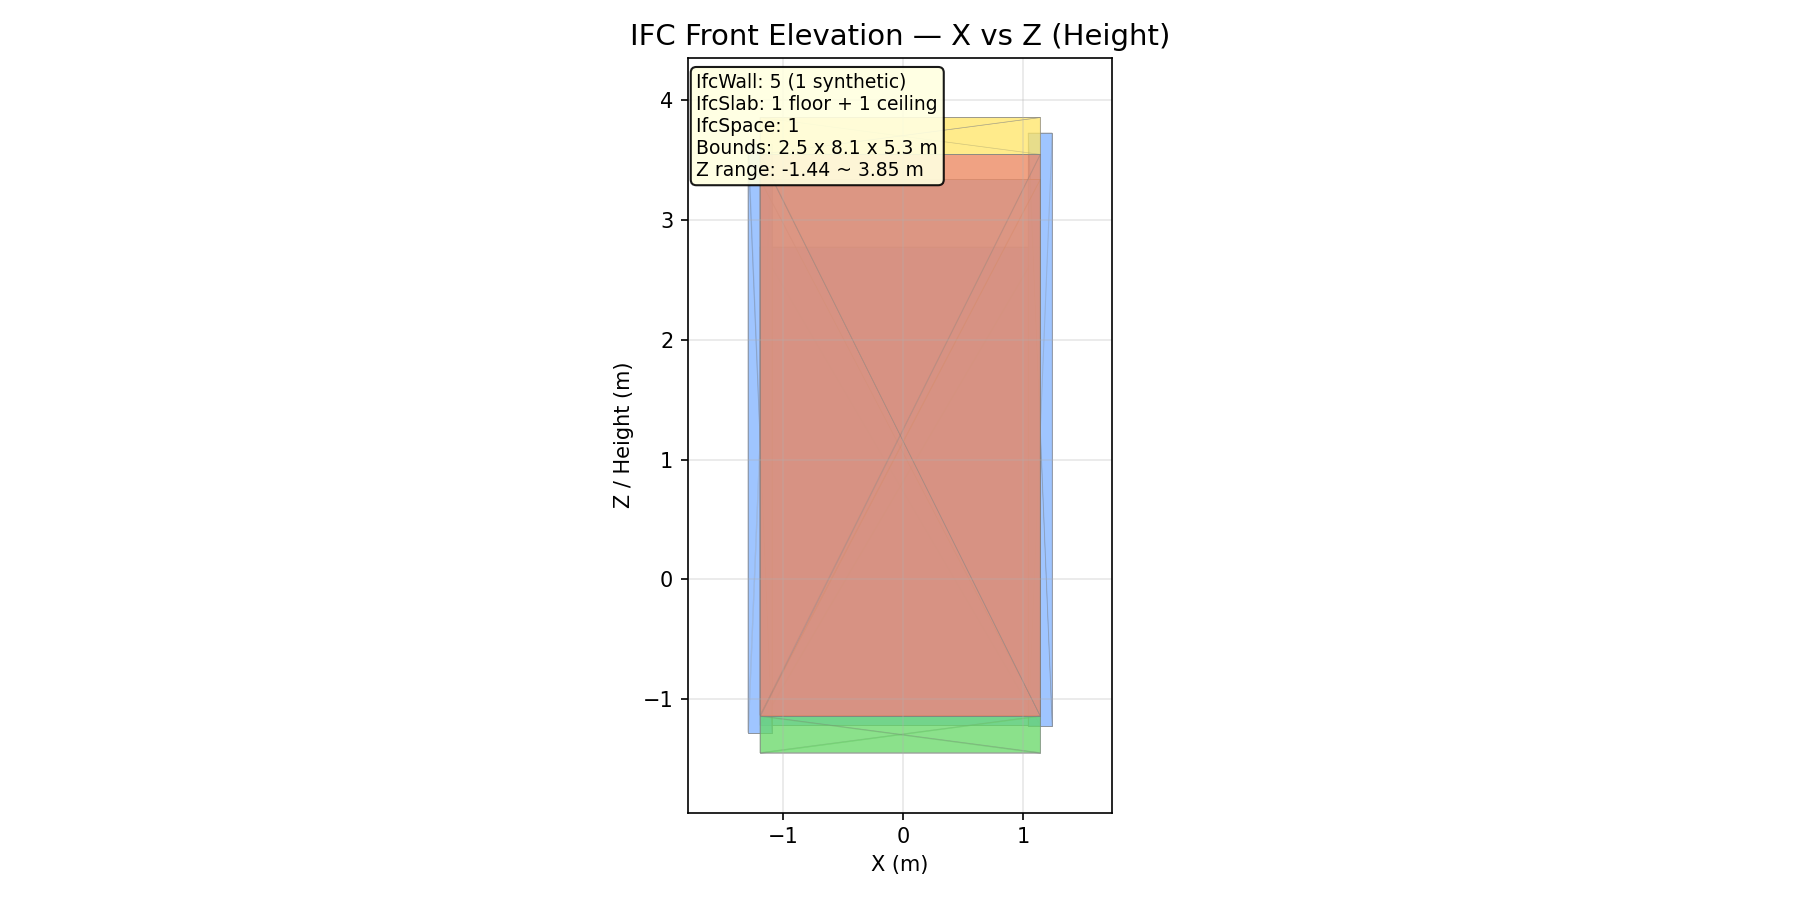
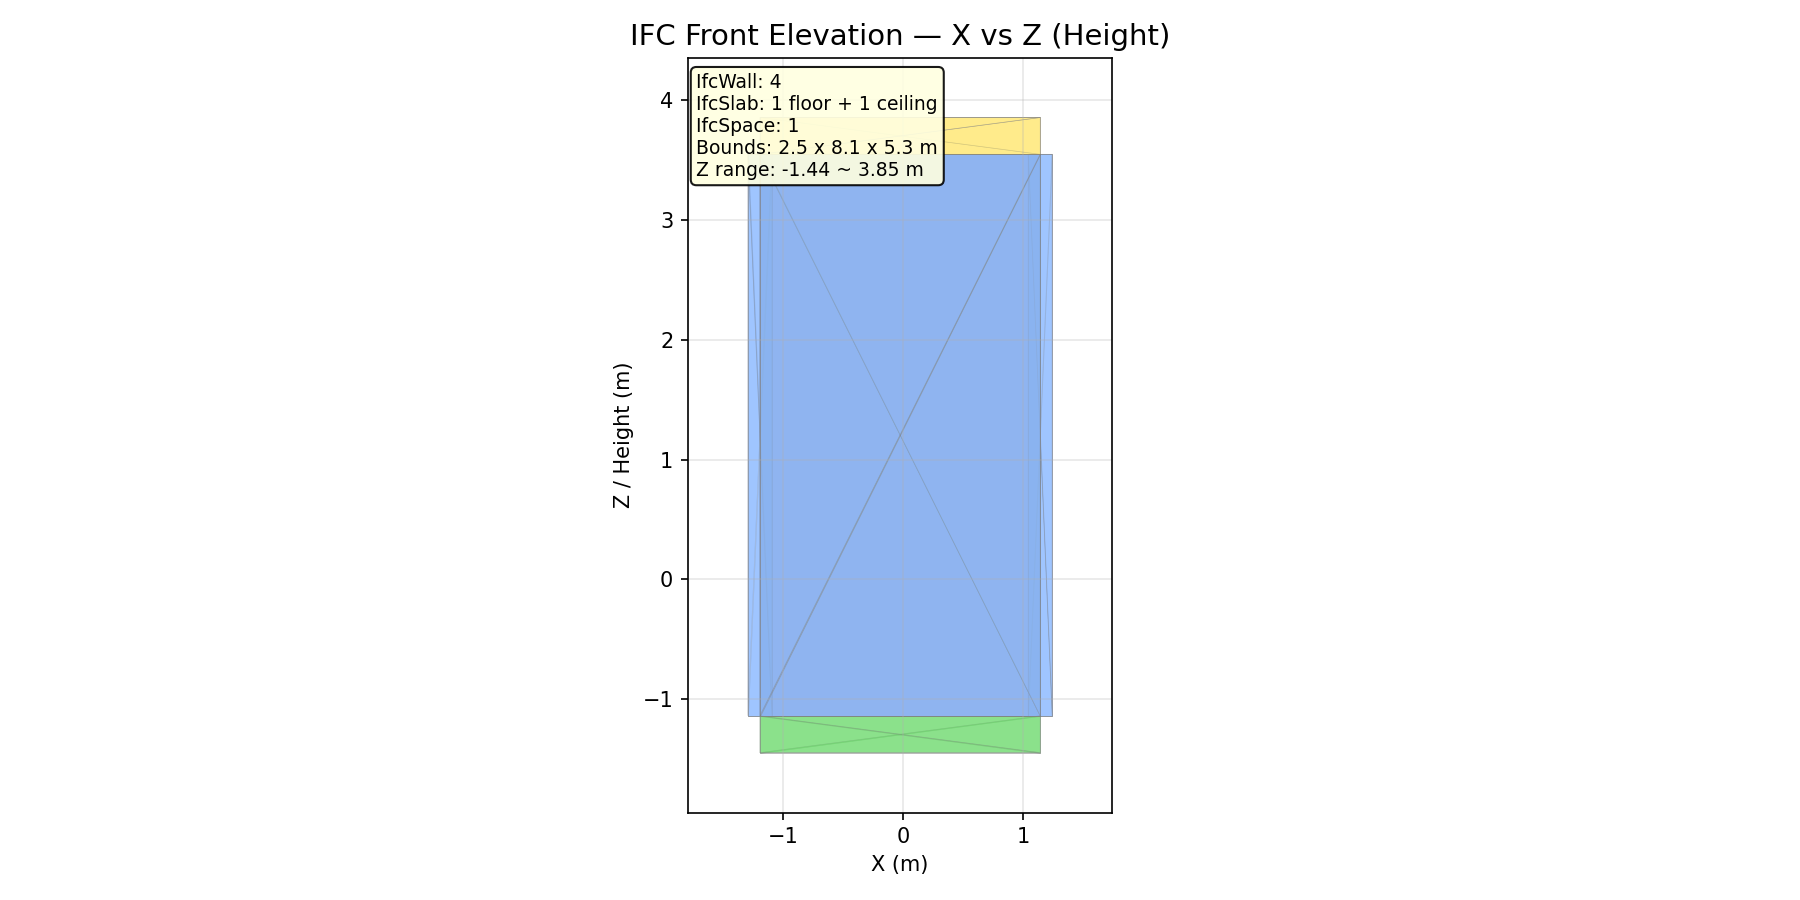
fix: 벽 높이 floor/ceiling 정규화 + synthetic wall 중복 제거
Cloud2BIM 패턴 준수: 벽을 storey floor_height→ceiling_height로
균일 extrude. Synthetic wall이 detected wall과 겹치면 자동 제거.

Before: 벽 높이 3.99~4.95m 제각각, ceiling gap 최대 0.77m
After: 모든 벽 4.68m 균일, floor/ceiling gap 0.000m

Changed region(s): [[0.4044, 0.1556, 0.5911, 0.8089], [0.4667, 0.0622, 0.4978, 0.0933]]

diff --git a/src/gss/steps/s07_ifc_export/step.py b/src/gss/steps/s07_ifc_export/step.py
@@ -2,19 +2,61 @@
 
 Primary path: walls.json + spaces.json → center-line based IFC
 Legacy fallback: planes.json + boundaries.json → boundary_3d based IFC
+
+Cloud2BIM pattern:
+  - Walls are extruded from storey floor_height to ceiling_height (uniform).
+  - Synthetic walls overlapping detected walls are deduplicated.
 """
 
 from __future__ import annotations
 
 import json
 import logging
+import math
 from typing import ClassVar
+
+import numpy as np
 
 from gss.core.step_base import BaseStep
 from .config import IfcExportConfig
 from .contracts import IfcExportInput, IfcExportOutput
 
 logger = logging.getLogger(__name__)
+
+
+def _deduplicate_walls(walls: list[dict]) -> list[dict]:
+    """Remove synthetic walls that overlap with detected walls.
+
+    A synthetic wall is considered duplicate if its center-line midpoint
+    is within 0.5 units of a detected wall's center-line midpoint.
+    """
+    detected = [w for w in walls if not w.get("synthetic")]
+    synthetic = [w for w in walls if w.get("synthetic")]
+
+    result = list(detected)
+    for sw in synthetic:
+        s_cl = sw.get("center_line_2d")
+        if not s_cl or len(s_cl) != 2:
+            result.append(sw)
+            continue
+        s0, s1 = np.array(s_cl[0]), np.array(s_cl[1])
+
+        is_dup = False
+        for dw in detected:
+            d_cl = dw.get("center_line_2d")
+            if not d_cl or len(d_cl) != 2:
+                continue
+            d0, d1 = np.array(d_cl[0]), np.array(d_cl[1])
+            fwd = np.linalg.norm(s0 - d0) + np.linalg.norm(s1 - d1)
+            rev = np.linalg.norm(s0 - d1) + np.linalg.norm(s1 - d0)
+            if min(fwd, rev) < 0.5:
+                is_dup = True
+                break
+        if is_dup:
+            logger.info(f"Dedup: synthetic wall {sw.get('id')} overlaps detected wall")
+        else:
+            result.append(sw)
+    return result
 
 
 class IfcExportStep(BaseStep[IfcExportInput, IfcExportOutput, IfcExportConfig]):
@@ -60,6 +102,24 @@ class IfcExportStep(BaseStep[IfcExportInput, IfcExportOutput, IfcExportConfig]):
         # Apply scale override if configured
         scale = self.config.scale_override or coordinate_scale
 
+        # --- Deduplicate synthetic walls overlapping detected walls ---
+        walls_data = _deduplicate_walls(walls_data)
+        logger.info(f"After dedup: {len(walls_data)} walls")
+
+        # --- Extract uniform storey heights from spaces ---
+        floor_z: float | None = None
+        ceiling_z: float | None = None
+        if spaces_data:
+            floor_heights = [s["floor_height"] for s in spaces_data if "floor_height" in s]
+            ceiling_heights = [s["ceiling_height"] for s in spaces_data if "ceiling_height" in s]
+            if floor_heights:
+                floor_z = min(floor_heights) / scale
+            if ceiling_heights:
+                ceiling_z = max(ceiling_heights) / scale
+            logger.info(
+                f"Storey heights: floor_z={floor_z:.3f}m, ceiling_z={ceiling_z:.3f}m"
+            )
+
         # --- Create IFC file + hierarchy ---
         ctx = create_ifc_file(
             version=self.config.ifc_version,
@@ -86,6 +146,8 @@ class IfcExportStep(BaseStep[IfcExportInput, IfcExportOutput, IfcExportConfig]):
                 ctx,
                 wall_data,
                 scale,
+                floor_z=floor_z,
+                ceiling_z=ceiling_z,
                 wall_material_name=self.config.wall_material_name,
                 default_thickness=self.config.default_wall_thickness,
                 create_axis=self.config.create_axis_representation,

diff --git a/src/gss/steps/s07_ifc_export/_wall_builder.py b/src/gss/steps/s07_ifc_export/_wall_builder.py
@@ -24,6 +24,8 @@ def create_wall_from_centerline(
     wall_data: dict,
     scale: float,
     *,
+    floor_z: float | None = None,
+    ceiling_z: float | None = None,
     wall_material_name: str = "Concrete",
     default_thickness: float = 0.2,
     create_axis: bool = True,
@@ -37,6 +39,8 @@ def create_wall_from_centerline(
         ctx: IFC context with file and shared entities.
         wall_data: Dict with center_line_2d, thickness, height_range, etc.
         scale: coordinate_scale divisor for meter conversion.
+        floor_z: Uniform floor Z in meters (overrides per-wall height_range min).
+        ceiling_z: Uniform ceiling Z in meters (overrides per-wall height_range max).
         Other kwargs control optional IFC features.
 
     Returns:
@@ -60,7 +64,9 @@ def create_wall_from_centerline(
     sx, sy = center_line[0][0] / scale, center_line[0][1] / scale
     ex, ey = center_line[1][0] / scale, center_line[1][1] / scale
 
-    y_min, y_max = height_range[0] / scale, height_range[1] / scale
+    # Use uniform storey heights when available (Cloud2BIM: walls span floor→ceiling)
+    y_min = floor_z if floor_z is not None else height_range[0] / scale
+    y_max = ceiling_z if ceiling_z is not None else height_range[1] / scale
     wall_height = y_max - y_min
     wall_thickness = thickness / scale
 
